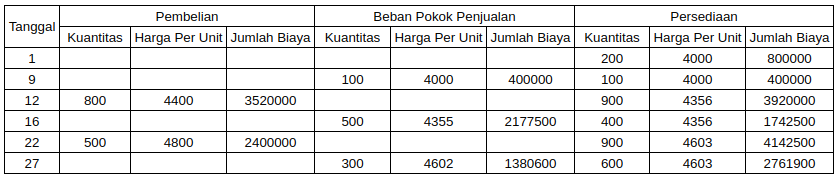
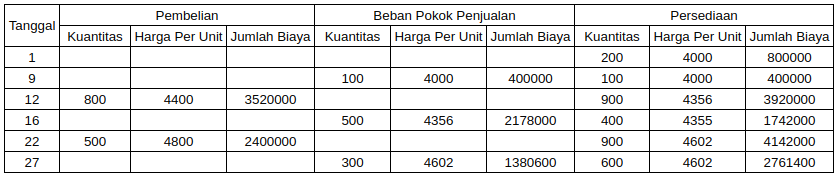
memperbaiki bug di latihan perpetual average

Changed region(s): [[0.0, 0.0, 1.0, 0.9777]]

diff --git a/assets/js/perpetual-average.js b/assets/js/perpetual-average.js
@@ -23,13 +23,13 @@ const data3 = fetchData(
   new DataAverage("12", [800, 4400, 3520000], [0, 0, 0], [900, 4356, 3920000])
 );
 const data4 = fetchData(
-  new DataAverage("16", [0, 0, 0], [500, 4355, 2177500], [400, 4356, 1742500])
+  new DataAverage("16", [0, 0, 0], [500, 4356, 2178000], [400, 4355, 1742000])
 );
 const data5 = fetchData(
-  new DataAverage("22", [500, 4800, 2400000], [0, 0, 0], [900, 4603, 4142500])
+  new DataAverage("22", [500, 4800, 2400000], [0, 0, 0], [900, 4602, 4142000])
 );
 const data6 = fetchData(
-  new DataAverage("27", [0, 0, 0], [300, 4603, 1380600], [600, 4603, 2761900])
+  new DataAverage("27", [0, 0, 0], [300, 4602, 1380600], [600, 4602, 2761400])
 );
 
 const row1 = Array.from(document.querySelectorAll("tr.row1 td input"));
